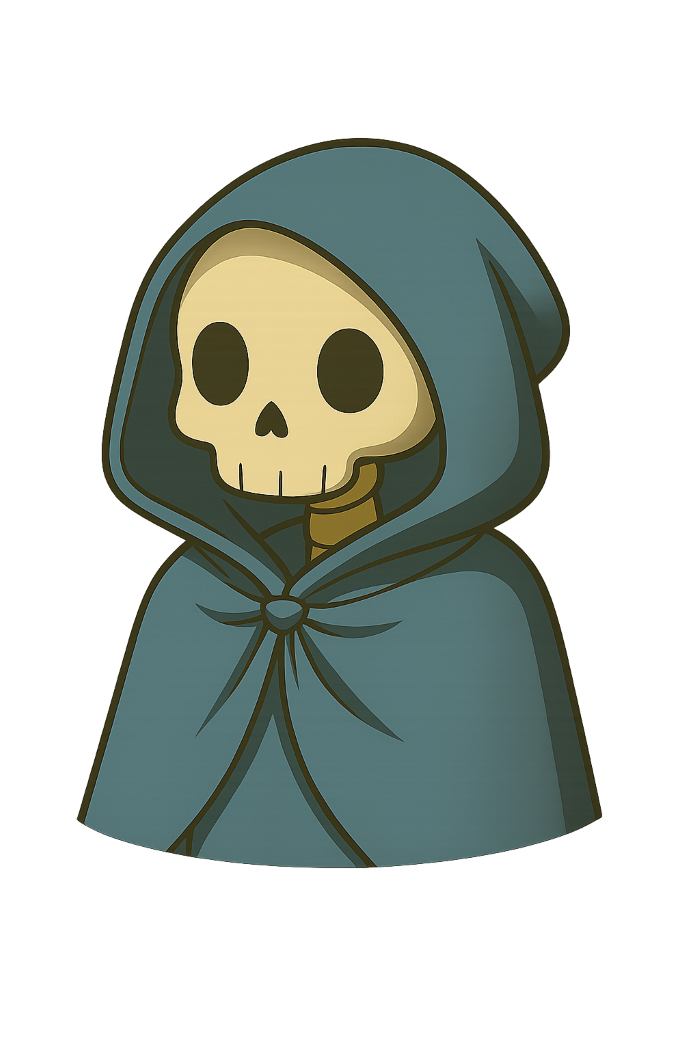
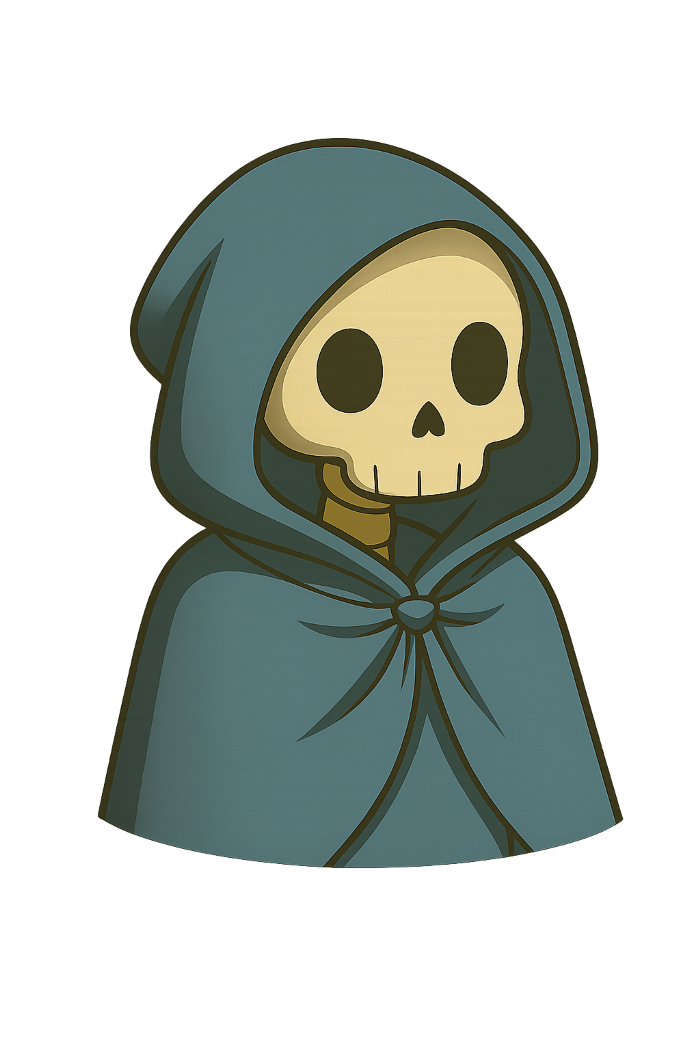
update portrait direction

Changed region(s): [[0.09, 0.1219, 0.9, 0.8533], [0.69, 0.6705, 0.72, 0.701]]

diff --git a/js/scenes/Scene3_Tomb.js b/js/scenes/Scene3_Tomb.js
@@ -350,7 +350,7 @@ class Scene3_Tomb extends GameScene {
                     if (this.textures.exists(key)) {
                         const morte = this.add.sprite(900, 360, key);
                         morte.setDepth(850);  // Above background, below UI
-                        morte.setScale(0.112);    // Scale down high-res sprite
+                        morte.setScale(0.22);    // Scale down high-res sprite
                         this.morteSprite = morte;  // Store for later use
                         morteLoaded = true;
                         break;
@@ -448,9 +448,12 @@ class Scene3_Tomb extends GameScene {
                                 // Fix portrait facing on every line change
                                 onLineChange: (line) => {
                                     // Ensure portraits face each other after texture swaps
+                                    // Both sister portraits now face RIGHT by default in the asset files
                                     if (conversationOverlay.dialogUI) {
-                                        conversationOverlay.dialogUI.leftPortrait.setFlipX(true);   // Sisters face right
-                                        conversationOverlay.dialogUI.rightPortrait.setFlipX(true);  // Morte faces left
+                                        // Sisters on left face right (towards Morte) - no flip needed
+                                        conversationOverlay.dialogUI.leftPortrait.setFlipX(false);
+                                        // Morte on right faces left (towards sisters) - flip to reverse
+                                        conversationOverlay.dialogUI.rightPortrait.setFlipX(true);
                                     }
                                 },
 

diff --git a/js/systems/DialogOverlay.js b/js/systems/DialogOverlay.js
@@ -106,9 +106,12 @@ class DialogOverlay {
             .setDepth(2000);
 
         // Apply facing direction
+        // Both sister portraits now face RIGHT by default
+        // Left portraits: keep facing right (no flip needed)
+        // Right portraits: flip to face left (towards the conversation partner)
         if (flipX) {
-            leftPortrait.setFlipX(true);
-            rightPortrait.setFlipX(true);
+            leftPortrait.setFlipX(false);   // Left faces right (default)
+            rightPortrait.setFlipX(true);   // Right faces left (flipped)
         }
 
         return { leftPortrait, rightPortrait };

diff --git a/UP NEXT.md b/UP NEXT.md
@@ -6,6 +6,7 @@ SCEN 3
 BYT STENLJUD - ALLT ÄR PÅ PLATS OCH FUNLAR
 UPPDATERA BUBBLES TILL SVENSKA
 HITTA BRA STENLJUD
+Fixa "blur" som kom efter vi skalade upp allt till full screen
 Se till att overlay är bakom det svarta!
 Fixa att sister är rättänd i vänstra dialoger
 Uppdatera player placering efter fade in/out
